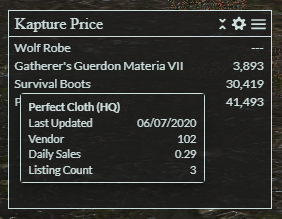
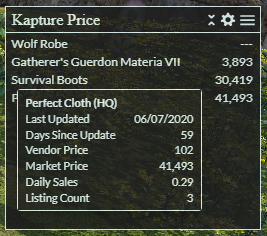
add upload date filter

diff --git a/src/lib/priceData.js b/src/lib/priceData.js
@@ -1,6 +1,6 @@
 import TestPriceData from "../constants/TestPriceData";
 import { formatNumber } from "./numbers";
-import { formatDate } from "./dates";
+import { calcDays, formatDate } from "./dates";
 import store from "../store";
 
 export function AddTestPriceData(context) {
@@ -8,6 +8,7 @@ export function AddTestPriceData(context) {
   TestPriceData.forEach(function(entry) {
     let priceData = parsePriceData(entry);
     if (priceData !== null) {
+      excludeOldPrices(priceData);
       context.$store.commit("updatePriceData", priceData);
     }
   });
@@ -31,7 +32,7 @@ export function parsePriceData(data) {
   };
   if (data["message"]["kaptureEvent"]["item"]["isHQ"] === true) {
     priceData.itemName = priceData.itemName + " (HQ)";
-    priceData.marketBoardPrice = formatNumber(
+    priceData.marketPriceDisplay = formatNumber(
       data["message"]["kaptureEvent"]["item"]["marketBoard"]["averagePriceHQ"]
     );
     priceData.saleVelocity = formatNumber(
@@ -39,7 +40,7 @@ export function parsePriceData(data) {
       2
     );
   } else {
-    priceData.marketBoardPrice = formatNumber(
+    priceData.marketPriceDisplay = formatNumber(
       data["message"]["kaptureEvent"]["item"]["marketBoard"]["averagePriceNQ"]
     );
     priceData.saleVelocity = formatNumber(
@@ -47,9 +48,11 @@ export function parsePriceData(data) {
       2
     );
   }
-  const lastUpload =
+  priceData.lastUploadTime =
     data["message"]["kaptureEvent"]["item"]["marketBoard"]["lastUploadTime"];
-  priceData.lastUploadTime = formatDate(lastUpload);
+  priceData.marketPriceActual = priceData.marketPriceDisplay;
+  excludeOldPrices(priceData);
+  priceData.lastUploadTime = formatDate(priceData.lastUploadTime);
   priceData.listingsCount =
     data["message"]["kaptureEvent"]["item"]["marketBoard"]["listingsCount"];
   removeDupes(priceData);
@@ -62,6 +65,12 @@ export function removeDupes(priceData) {
   store.commit("removePriceData", priceData);
 }
 
+export function excludeOldPrices(priceData) {
+  priceData.daysAgo = calcDays(priceData.lastUploadTime);
+  if (priceData.daysAgo > store.state.settings.maxDays) {
+    priceData.marketPriceDisplay = "---";
+  }
+}
 export function consolidateData() {
   if (!store.state.settings.maxItems) return;
   store.commit("consolidatePriceData", store.state.settings.maxItems);

diff --git a/src/components/Prices/Price/Price.vue b/src/components/Prices/Price/Price.vue
@@ -15,7 +15,7 @@
               <v-flex class="info-container">
                 <v-layout column class="right-info">
                   <v-flex>
-                    {{ price.marketBoardPrice }}
+                    {{ price.marketPriceDisplay }}
                   </v-flex>
                 </v-layout>
               </v-flex>
@@ -60,8 +60,16 @@ export default {
           value: this.price.lastUploadTime
         },
         {
+          title: this.$t("price.last-updated-days"),
+          value: this.price.daysAgo
+        },
+        {
           title: this.$t("price.vendor-price"),
           value: this.price.vendorPrice
+        },
+        {
+          title: this.$t("price.market-price"),
+          value: this.price.marketPriceActual
         },
         {
           title: this.$t("price.daily-sales"),

diff --git a/src/components/Settings/Filters/Filters.vue b/src/components/Settings/Filters/Filters.vue
@@ -14,6 +14,14 @@
       v-bind:formatter="'{value}'"
       @change="settings.maxItems = $event"
     />
+    <Slider
+      label="settings.max-days"
+      v-bind:min="1"
+      v-bind:max="180"
+      v-bind:initial-slider-value="settings.maxDays"
+      v-bind:formatter="'{value}'"
+      @change="settings.maxDays = $event"
+    />
     <SettingButtons @reset="reset" @update="update" />
   </v-content>
 </template>
@@ -30,6 +38,7 @@ export default {
     return {
       settings: {
         maxItems: this.$store.state.settings.maxItems,
+        maxDays: this.$store.state.settings.maxDays,
         excludeDupes: this.$store.state.settings.excludeDupes
       }
     };

diff --git a/src/constants/Splash.js b/src/constants/Splash.js
@@ -1,10 +1,9 @@
 let SplashMessage = {
-  version: 2,
-  title: "some improvements",
+  version: 3,
+  title: "filter old data",
   messages: [
-    "- Try clicking an item to see more info",
-    "- New settings to filter max items / remove dupes",
-    "- Minimize overlay added to header"
+    "Added filter for items with old upload data.",
+    "Filter is configurable with 60 days by default."
   ]
 };
 export default SplashMessage;

diff --git a/src/lib/locale.js b/src/lib/locale.js
@@ -9,9 +9,10 @@ export function setLocale(context) {
     getLanguageId().then(languageId => {
       let pluginLanguage = languages[languageId];
       context.$root.$i18n.locale = pluginLanguage.locale;
+      moment.locale(context.$root.$i18n.locale);
     });
   } else {
     context.$root.$i18n.locale = language.locale;
+    moment.locale(context.$root.$i18n.locale);
   }
-  moment.locale(context.$root.$i18n.locale);
 }

diff --git a/src/lib/dates.js b/src/lib/dates.js
@@ -3,3 +3,9 @@ import moment from "moment";
 export function formatDate(date) {
   return moment.unix(date / 1000).format("L");
 }
+
+export function calcDays(date) {
+  const now = moment(new Date(), "L");
+  const previous = moment(date);
+  return now.diff(previous, "days");
+}

diff --git a/src/store/settings.js b/src/store/settings.js
@@ -34,6 +34,7 @@ function initialState() {
     opacity: 85,
     excludeDupes: true,
     maxItems: 10,
+    maxDays: 60,
     abbreviateNumbers: false,
     precision: 0,
     digitSepId: 2,

diff --git a/README.md b/README.md
@@ -25,6 +25,7 @@ kapture price is a loot overlay for use with ACT for FFXIV and the Kapture plugi
 * Click on an item to view additional info including vendor price.
 * Customize layout including how numbers are displayed.
 * Customize how many items display and to exclude duplicates.
+* Filter out old upload data (default is 60 days).
 * Support for English, French, German, and Japanese.
 
 ## How To Install
